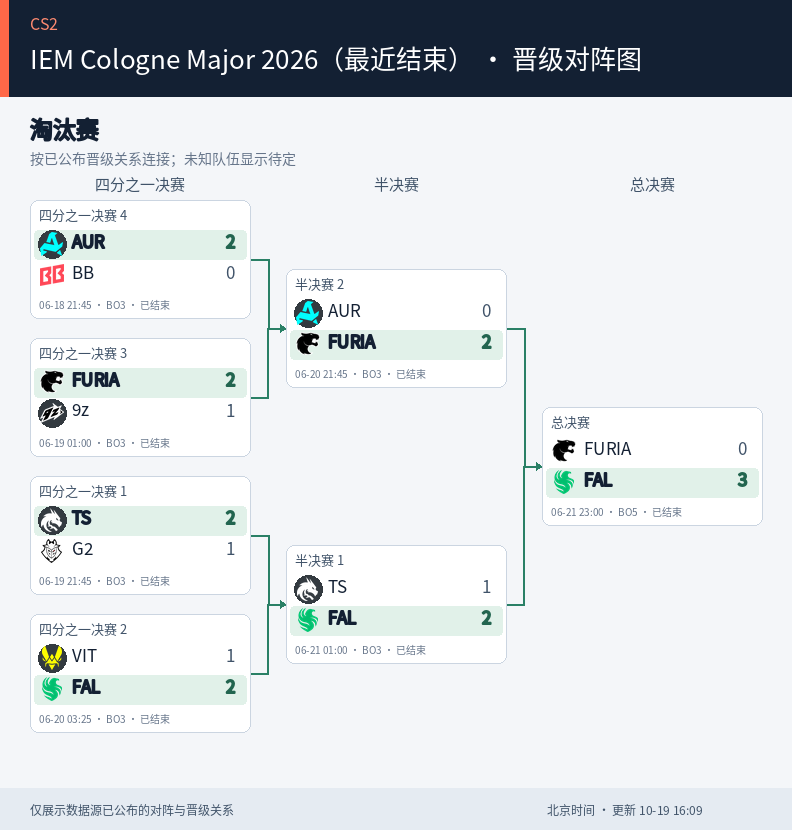
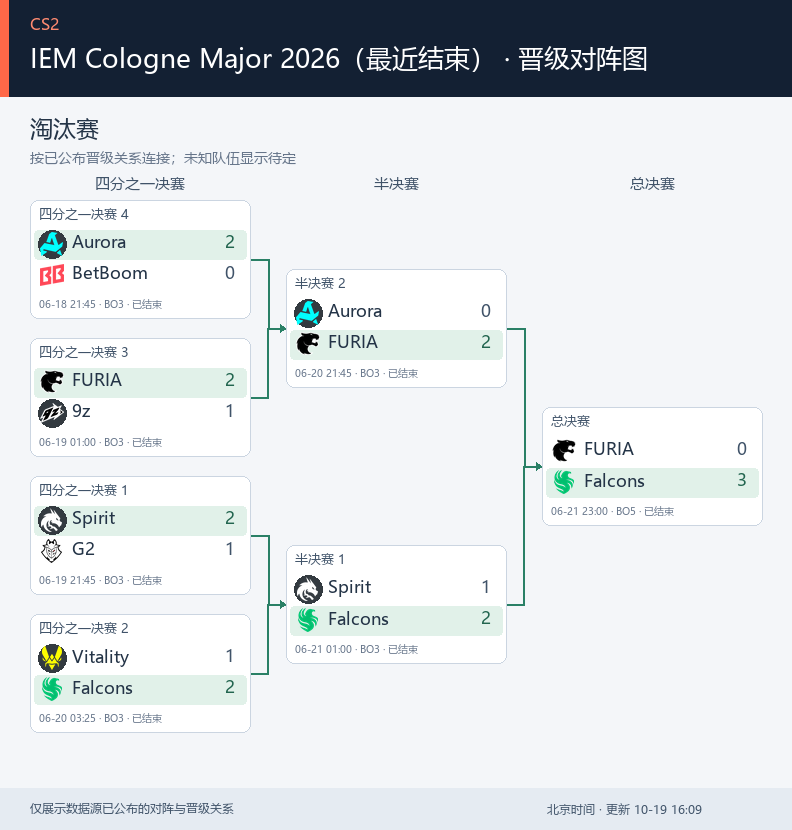
fix: use familiar Major team names and lighter bracket typography

diff --git a/bracket_renderer.py b/bracket_renderer.py
@@ -2,6 +2,7 @@
 from PIL import Image, ImageDraw
 
 from .formatters import fmt_time, translate_match_stage
+from .bracket_data import bracket_team_name
 from .team_logos import normalize_name
 
 
@@ -11,9 +12,9 @@ class BracketRenderer:
     def __init__(self, shared_renderer):
         self.shared = shared_renderer
 
-    def _text(self, draw, text, x, y, size=16, color='#132033', centered=False, bold=False):
+    def _text(self, draw, text, x, y, size=16, color='#243447', centered=False):
         self.shared._draw_card_text(draw, str(text), x, y, self.shared._pick_banner_font(size), color,
-                                    centered=centered, bold=bold)
+                                    centered=centered)
 
     def _positions(self, stage, width, top):
         columns = stage['columns']
@@ -71,9 +72,9 @@ class BracketRenderer:
         winner = match.get('winner_id') or (match.get('winner') or {}).get('id')
         for index, team in enumerate(opponents):
             row_top = y + 32 + index * 31
-            known = team.get('name') and str(team['name']).casefold() not in {'tbd', 'to be determined'}
+            label = bracket_team_name(team)
+            known = label != '待定'
             name = team.get('name') if known else '待定'
-            label = (team.get('acronym') or name) if known else '待定'
             is_winner = match.get('status') == 'finished' and winner is not None and team.get('id') is not None and str(team['id']) == str(winner)
             if is_winner:
                 draw.rounded_rectangle((x+4,row_top-2,x+self.CARD_W-4,row_top+27), radius=4, fill='#e1f1e9')
@@ -84,11 +85,11 @@ class BracketRenderer:
                 draw.ellipse((x+12,row_top+2,x+32,row_top+22),outline='#cbd5e1',width=1)
                 self._text(draw,'?',x+22,row_top+4,12,'#8a99aa',centered=True)
             font = self.shared._fit_banner_font(draw, str(label), self.CARD_W-82, 17, 11)
-            self.shared._draw_card_text(draw, str(label), x+42, row_top+3, font, '#132033', bold=is_winner)
+            self.shared._draw_card_text(draw, str(label), x+42, row_top+3, font, '#243447')
             score = scores.get(str(team.get('id')))
             show = match.get('status') in {'running','finished'} and isinstance(score,int) and not isinstance(score,bool) and score >= 0
             self._text(draw,score if show else '—',x+self.CARD_W-20,row_top+3,17,
-                       '#22654f' if is_winner else '#405369',centered=True,bold=is_winner)
+                       '#22654f' if is_winner else '#405369',centered=True)
         status = {'finished':'已结束','running':'进行中','canceled':'已取消','postponed':'已延期'}.get(match.get('status'),'待开赛')
         when = fmt_time(match.get('scheduled_at') or match.get('begin_at'))
         bo = f"BO{match['number_of_games']}" if match.get('number_of_games') else ''
@@ -119,7 +120,7 @@ class BracketRenderer:
         self._text(draw,self.shared.game_label,self.PAD,18,16,'#ff8a70')
         self._text(draw,snapshot['title']+' · 晋级对阵图',self.PAD,46,26,'#ffffff')
         for top,stage,positions,graph_height in layout:
-            self._text(draw,stage['title'],self.PAD,top+10,23,bold=True)
+            self._text(draw,stage['title'],self.PAD,top+10,23)
             note = ' · '.join(stage['notes']) if stage['notes'] else '实线：胜者晋级　虚线：败者转入败者组' if any(e['type']=='loser' for e in stage['edges']) else '按已公布晋级关系连接；未知队伍显示待定'
             self._text(draw,note,self.PAD,top+43,14,'#66758a')
             if not positions:

diff --git a/bracket_data.py b/bracket_data.py
@@ -3,6 +3,53 @@ from copy import deepcopy
 import re
 
 from .formatters import translate_match_stage
+from .team_logos import normalize_name
+
+
+# Use recognizable CS names rather than the data source's arbitrary acronyms.
+# Unknown teams keep their full name instead of inventing a new abbreviation.
+_TEAM_NAMES = {
+    'Spirit': ('Team Spirit', 'Spirit'),
+    'NAVI': ('Natus Vincere', 'NAVI'),
+    'Vitality': ('Team Vitality', 'Vitality'),
+    'Falcons': ('Team Falcons', 'Falcons', 'Falcons Esports'),
+    'Liquid': ('Team Liquid', 'Liquid'),
+    'Aurora': ('Aurora Gaming', 'Aurora'),
+    'BetBoom': ('BetBoom Team', 'BetBoom'),
+    'The MongolZ': ('The MongolZ', 'MongolZ'),
+    'G2': ('G2 Esports', 'G2'),
+    'FaZe': ('FaZe Clan', 'FaZe'),
+    'VP': ('Virtus.pro', 'Virtus Pro', 'VP'),
+    'NIP': ('Ninjas in Pyjamas', 'NIP'),
+    'paiN': ('paiN Gaming', 'paiN'),
+    'FURIA': ('FURIA Esports', 'FURIA'),
+    'FUT': ('FUT Esports', 'FUT'),
+    'GamerLegion': ('GamerLegion', 'Gamer Legion'),
+    'Complexity': ('Complexity Gaming', 'Complexity'),
+    'MOUZ': ('mousesports', 'MOUZ'),
+    'PARIVISION': ('PARIVISION',),
+    'HEROIC': ('HEROIC',),
+    'TYLOO': ('TYLOO',),
+    '9z': ('9z Team', '9z Globant', '9z'),
+    'Legacy': ('Legacy Esports', 'Legacy'),
+    'B8': ('B8 Esports', 'B8'),
+    'MIBR': ('Made in Brazil', 'MIBR'),
+    'NRG': ('NRG Esports', 'NRG'),
+    'ENCE': ('ENCE eSports', 'ENCE'),
+    'SINNERS': ('SINNERS Esports', 'SINNERS'),
+    'Nemiga': ('Nemiga Gaming', 'Nemiga'),
+    'Sangal': ('Sangal Esports', 'Sangal'),
+    'Sashi': ('Sashi Esport', 'Sashi Esports', 'Sashi'),
+}
+_TEAM_LABELS = {normalize_name(alias): label
+                for label, aliases in _TEAM_NAMES.items() for alias in aliases}
+
+
+def bracket_team_name(team):
+    name = str(team.get('name') or '').strip()
+    if not name or name.casefold() in {'tbd', 'to be determined'}:
+        return '待定'
+    return _TEAM_LABELS.get(normalize_name(name), name)
 
 
 def _order(match):
@@ -86,7 +133,7 @@ def format_bracket(snapshot, stages):
         for column in stage['columns']:
             lines.append(column['label'])
             for match in column['matches']:
-                names = [(slot.get('opponent') or {}).get('name') or '待定'
+                names = [bracket_team_name(slot.get('opponent') or {})
                          for slot in match.get('opponents') or []][:2]
                 names += ['待定'] * (2 - len(names))
                 scores = {str(r.get('team_id')): r.get('score') for r in match.get('results') or []}

diff --git a/banners.py b/banners.py
@@ -649,10 +649,10 @@ class BannerRenderer:
             "/usr/share/fonts/truetype/wqy/wqy-zenhei.ttc",
             "/usr/share/fonts/truetype/wqy/wqy-microhei.ttc",
             "C:/Windows/Fonts/msyh.ttc",
-            "/usr/share/fonts/truetype/dejavu/DejaVuSans-Bold.ttf",
             "/usr/share/fonts/truetype/dejavu/DejaVuSans.ttf",
-            "C:/Windows/Fonts/arialbd.ttf",
+            "/usr/share/fonts/truetype/dejavu/DejaVuSans-Bold.ttf",
             "C:/Windows/Fonts/arial.ttf",
+            "C:/Windows/Fonts/arialbd.ttf",
         ]
         for path in candidates:
             if os.path.exists(path):

diff --git a/bracket_images.py b/bracket_images.py
@@ -65,7 +65,7 @@ class BracketImages:
         for team in teams:
             data = self.plugin.team_logos.get(team['name']) or self.plugin.team_logos.get(team.get('acronym', ''))
             local.append((team['name'], hashlib.sha256(data).hexdigest() if data else None))
-        payload = {'version': 1, 'game': 'csgo', 'title': snapshot['title'],
+        payload = {'version': 2, 'game': 'csgo', 'title': snapshot['title'],
                    'stages': stages, 'local_marks': local}
         return hashlib.sha256(json.dumps(payload, ensure_ascii=False, sort_keys=True).encode()).hexdigest()
 

diff --git a/CHANGELOG.md b/CHANGELOG.md
@@ -4,6 +4,7 @@
 
 基于公开版 4.2.0 整理，收录本分支 CS2 功能。版本尚未发布；实际适配器和线上运行情况需由维护者部署后确认。
 
+- **Major 对阵图显示**：图片与文字版使用 Spirit、NAVI、Vitality 等常用队名，未知队伍保留全名；移除队名、比分和阶段标题的加粗描边，保留浅绿色胜者背景，并更新展示图。
 - **提前开赛补报**：已追踪比赛确认正在进行、但尚未提醒时补发“已开赛”通知；复用赛前逐群回执，已收到提醒的群不重复，失败随赛果轮询重试。重载可恢复计划时间尚未到的提前开赛追踪；已结束、取消、被屏蔽或明确不补发的比赛不补报。
 - **比赛跟踪更可靠**：刷新、赛前提醒和赛果追踪协调处理，避免比赛提前开赛、取消或临时从列表消失时丢失后续赛果；已确定的对手发生变更时重建提醒，重载后恢复待追踪比赛。
 - **日报失败重试**：保留待处理日报内容，按目标群重试失败投递，成功群跳过；重启恢复当天仍有效的任务。手动推送不建立重试任务。

diff --git a/docs/cs-major.md b/docs/cs-major.md
@@ -12,6 +12,8 @@
 
 对阵图读取整届赛事的阶段和比赛，不受未来赛程查询天数、关注战队或推送筛选影响。瑞士轮按轮次排列，不推测后续抽签或绘制固定晋级线；淘汰赛仅按数据源明确提供的比赛关系绘制晋级路径。未知队伍和比分保持待定，不作推断。
 
+队名使用常见叫法，例如 Spirit、NAVI、Vitality、Falcons、G2、FaZe；不直接套用数据源的 TS、VIT、FAL 等缩写，未设置常用名的队伍保留完整名称。图片与文字版使用相同队名。队名、比分和阶段标题使用常规字重，胜者通过浅绿色背景和比分颜色区分。
+
 ## 当前阶段与缓存
 
 不带阶段参数时，插件优先按进行中的比赛识别当前阶段，再结合阶段起止时间及未完成比赛判断。阶段间休息或整届赛事结束时，不会把未来或历史阶段冒充为当前阶段。
